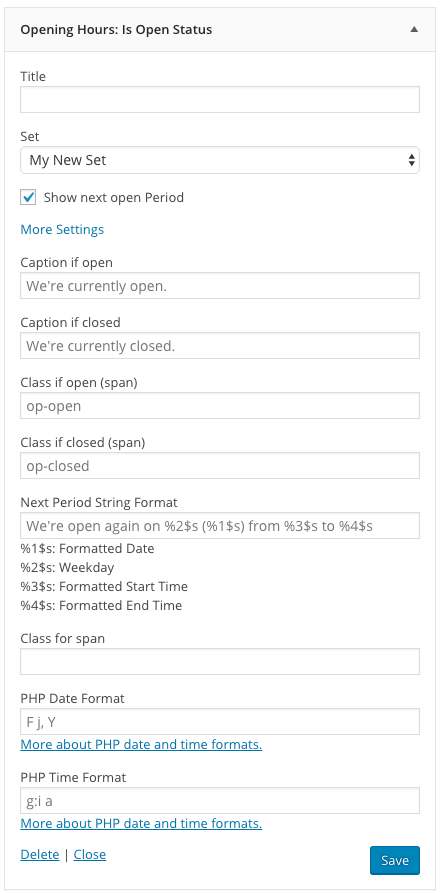
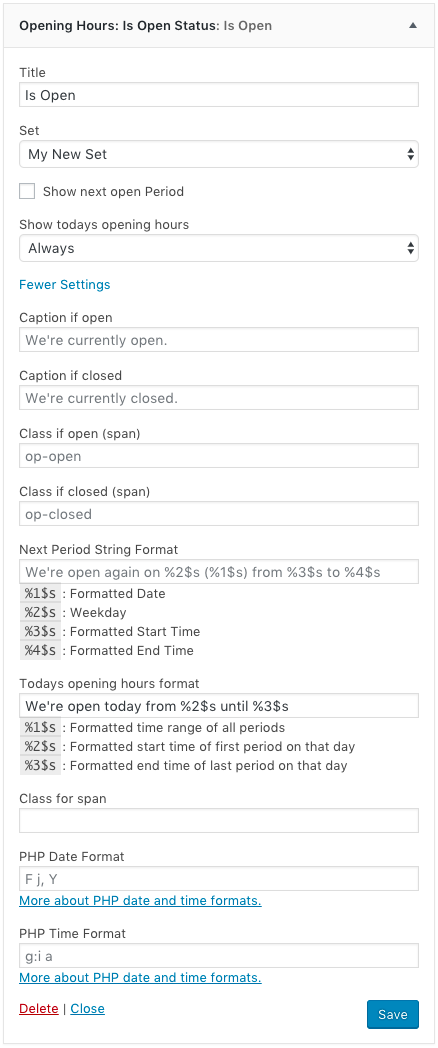
added new shortcode/widget options to README

diff --git a/tests/OpeningHours/Module/Shortcode/IsOpenTest.php b/tests/OpeningHours/Module/Shortcode/IsOpenTest.php
@@ -2,7 +2,6 @@
 
 namespace OpeningHours\Test\Module\Shortcode;
 
-use Hamcrest\Core\Is;
 use OpeningHours\Entity\Holiday;
 use OpeningHours\Entity\IrregularOpening;
 use OpeningHours\Entity\Period;

diff --git a/README.md b/README.md
@@ -292,7 +292,11 @@ There are the folliwing options:
 		</tr>
 		<tr>
 			<td>Show next open period</td>
-			<td>When select, a message telling the next open period will be displayed if the venue (set) is currently closed.</td>
+			<td>When checked, a message telling the next open period will be displayed if the venue (set) is currently closed.</td>
+		</tr>
+		<tr>
+			<td>Show today's opening hours</td>
+			<td>Specify in which cases today's opening hours shall be displayed in the widget</td>
 		</tr>
 	</tbody>
 	<thead>
@@ -304,7 +308,7 @@ There are the folliwing options:
 			<td>Custom caption to show when the venue is open</td>
 		</tr>
 		<tr>
-			<td>Cpation if closed</td>
+			<td>Caption if closed</td>
 			<td>Custom caption to show when the venue is closed</td>
 		</tr>
 		<tr>
@@ -326,6 +330,18 @@ There are the folliwing options:
 				<li><code>%4$s</code> The formatted end time of the next open period</li>
 			</ul>
 			Example: <code>We're open again on %2$s (%1$s) from %3$s to %4$s</code>
+			</td>
+		</tr>
+		<tr>
+			<td>Today' opening hours string format</td>
+			<td>A custom string format for the today's opening hours message.<br />
+			You can populate the string with the following placeholders:
+			<ul>
+				<li><code>%1$s</code> The formatted time ranges of all periods</li>
+				<li><code>%2$s</code> The formatted start time of the first period</li>
+				<li><code>%3$s</code> The formatted end time of the last period</li>
+			</ul>
+			Example: <code>We're open today from %2$s to %3$s.</code>
 			</td>
 		</tr>
 		<tr>
@@ -632,6 +648,20 @@ The following attributes are available (Also mind the **[Common Attributes](#com
 			<td>When <code>true</code>, a message telling the next open period will be displayed if the venue (set) is currently closed.</td>
 		</tr>
 		<tr>
+			<td><code>show_today</code></td>
+			<td><code>string (enum)</code></td>
+			<td><code>never</code></td>
+			<td>
+				When to show today's opening hours<br />
+				The following values are valid:
+				<ul>
+					<li><code>never</code></li>
+					<li><code>open</code></li>
+					<li><code>always</code></li>
+				</ul>
+			</td>
+		</tr>
+		<tr>
 			<td><code>next_format</code></td>
 			<td><code>string</code></td>
 			<td>We're open again on <code>%2$s</code> (<code>%1$s</code>) from <code>%3$s</code> to <code>%4$s</code></td>
@@ -642,6 +672,18 @@ The following attributes are available (Also mind the **[Common Attributes](#com
 				<li><code>%2$s</code> The name of the weekday of the next open period (translated)</li>
 				<li><code>%3$s</code> The formatted start time of the next open period</li>
 				<li><code>%4$s</code> The formatted end time of the next open period</li>
+			</ul></td>
+		</tr>
+		<tr>
+			<td><code>today_format</code></td>
+			<td><code>string</code></td>
+			<td>Opening Hours today: <code>%1$s</code></td>
+			<td>A custom string format for the today's opening hours message.<br />
+			You can populate the string with the following placeholders:
+			<ul>
+				<li><code>%1$s</code> The formatted time ranges of all periods</li>
+				<li><code>%2$s</code> The formatted start time of the first period</li>
+				<li><code>%3$s</code> The formatted end time of the last period</li>
 			</ul></td>
 		</tr>
 		<tr>
